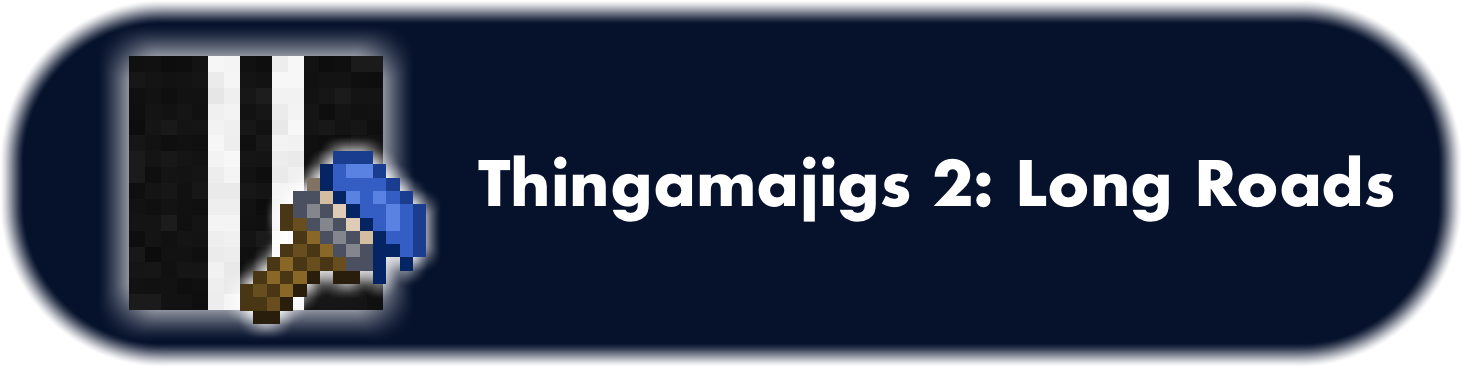
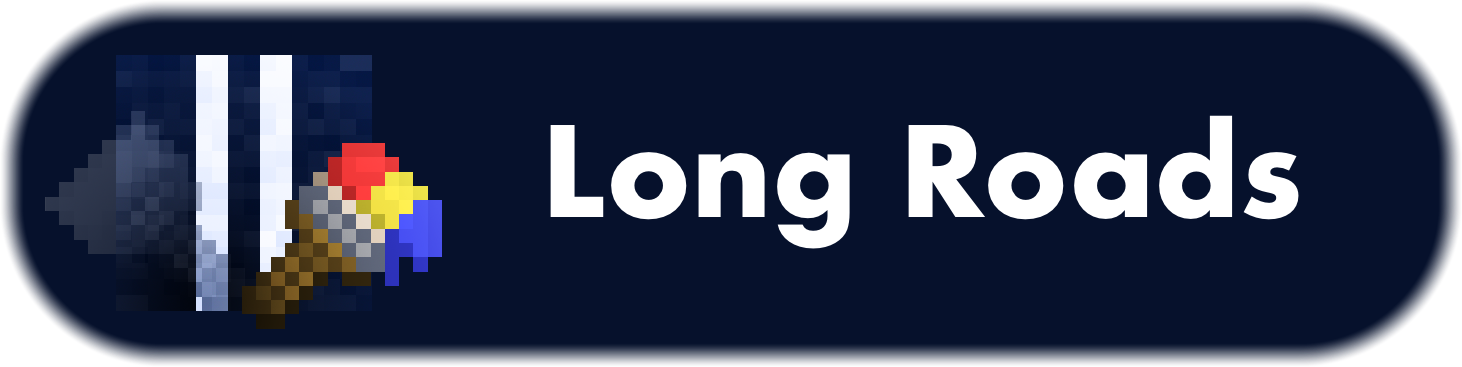
1.0.1 refurbished sign type list with bigger buttons and better renders on them, and cached translation keys

Changed region(s): [[0.0308, 0.0899, 0.9542, 0.9292]]

diff --git a/src/main/java/net/rk/longroads/screen/DynamicRoadSignScreen.java b/src/main/java/net/rk/longroads/screen/DynamicRoadSignScreen.java
@@ -21,6 +21,7 @@ import net.rk.longroads.ThingamajigsLongRoads;
 import net.rk.longroads.menu.DynamicSignMenu;
 import net.rk.longroads.network.record.DynamicSignPayload;
 import net.rk.longroads.registries.SignType;
+import net.rk.longroads.registries.TLRRegistries;
 import net.rk.longroads.screen.widget.ActionCheckboxLongRoads;
 import net.rk.longroads.screen.widget.DynamicEditBox;
 import net.rk.longroads.screen.widget.RevertedButton;
@@ -55,17 +56,17 @@ public class DynamicRoadSignScreen extends AbstractContainerScreen<DynamicSignMe
     public float scrollOffs = 0;
     public int startRow = 0;
 
-    public int listButtonStartX = 184;
-    public int listButtonStartY = 96;
+    public int listButtonStartX = 184; // 184
+    public int listButtonStartY = 96; // 96
 
-    public int listBGX = 183;
-    public int listBGY = 94;
+    public int listBGX = 183; // 183
+    public int listBGY = 94; // 94
 
-    public int scrollerStartX = 241;
-    public int scrollerStartY = 95;
+    public int scrollerStartX = 275; // 241
+    public int scrollerStartY = 95; // 95
 
-    private int buttonSizeX = 14;
-    private int buttonSizeY = 14;
+    private int buttonSizeX = 18; // 14 for both
+    private int buttonSizeY = 18;
 
     public boolean isShifting = false;
 
@@ -106,7 +107,7 @@ public class DynamicRoadSignScreen extends AbstractContainerScreen<DynamicSignMe
         RenderSystem.defaultBlendFunc();
         RenderSystem.setShaderTexture(0, BG_TEXTURE);
         guiGraphics.blit(LIST_BG, this.leftPos + listBGX, this.topPos + listBGY, 0.0F, 0.0F,
-                71, 60, 71, 60);
+                107, 78, 107, 78);
         RenderSystem.disableBlend();
 
         guiGraphics.pose().pushPose();
@@ -136,10 +137,12 @@ public class DynamicRoadSignScreen extends AbstractContainerScreen<DynamicSignMe
 
         // sign type preview 'buttons'
         label64:
-        for (int l = 0; l < 4; l++) {
-            for (int i1 = 0; i1 < 4; i1++) {
+        for (int l = 0; l < 4; l++) { // was 4
+            for (int i1 = 0; i1 < 4; i1++) { // was 4
+                int offset = 4;
+
                 int j1 = l + startRow;
-                int k1 = j1 * 4 + i1;
+                int k1 = j1 * offset + i1;
                 if (k1 >= list.size()) {
                     break label64;
                 }
@@ -169,29 +172,29 @@ public class DynamicRoadSignScreen extends AbstractContainerScreen<DynamicSignMe
                         res = ResourceLocation.parse(Utilities.missingLocation);
                     }
                     //
-                    double delta = Math.sin(0.75 * Math.cos(6.32 * Util.getMillis() / 3800.0 / Math.max((double)l * 0.5, 3.0))) / 2.5;
-                    double deltaY = Math.sin(0.75 * Math.cos(6.28 * Util.getMillis() / 3200.0 / Math.max((double)l * 0.5, 3.0))) / 2.5;
+                    /*double delta = Math.sin(0.75 * Math.cos(6.32 * Util.getMillis() / 3800.0 / Math.max((double)l * 0.5, 3.0))) / 2.5;
+                    double deltaY = Math.sin(0.75 * Math.cos(6.28 * Util.getMillis() / 3200.0 / Math.max((double)l * 0.5, 3.0))) / 2.5;*/
 
                     if(DynamicSignMenu.signTypes.get(k1).signModeltype().equals(Utilities.SignModelTypes.SQUARE.getModelTypeName())){
                         guiGraphics.blit(res, x,y,
-                                5.75f,1.75f,
-                                14,14,
-                                32,32);
+                                6.5f,-1f,
+                                buttonSizeX,buttonSizeY,
+                                38,16);
                     }
                     else if(DynamicSignMenu.signTypes.get(k1).signModeltype().equals(Utilities.SignModelTypes.DOUBLE_SQUARE.getModelTypeName())){
-                        double rangeLarge = Mth.lerp(delta,20,90);
-                        double rangeLargeY = Mth.lerp(deltaY,1,48);
+                        //double rangeLarge = Mth.lerp(delta,20,90);
+                        //double rangeLargeY = Mth.lerp(deltaY,1,48);
                         guiGraphics.blit(res, x,y,
-                                (float)rangeLarge + 2f,(float)rangeLargeY + 16f,
-                                14,14,
-                                128,128);
+                                (float)0f,(float)0f,
+                                buttonSizeX,buttonSizeY,
+                                32,32);
                     }
                     else if(DynamicSignMenu.signTypes.get(k1).signModeltype().equals(Utilities.SignModelTypes.RECTANGLE.getModelTypeName())){
-                        double rangeRect = Mth.lerp(delta,16,64);
+                        //double rangeRect = Mth.lerp(delta,16,64);
                         guiGraphics.blit(res, x,y,
-                                (float)rangeRect,0,
-                                14,14,
-                                128,64);
+                                (float)7,(float)-1,
+                                buttonSizeX,buttonSizeY,
+                                64,32);
                     }
                 }
             }
@@ -209,19 +212,29 @@ public class DynamicRoadSignScreen extends AbstractContainerScreen<DynamicSignMe
     protected void renderLabels(GuiGraphics guiGraphics, int mouseX, int mouseY) {
         guiGraphics.drawString(this.font, this.title, this.titleLabelX, this.titleLabelY, 4210752, false);
 
-        String translationKey = this.menu.be.holderList.typesHolderObjectList().get(0).getSignType().translationKey();
+        String translationKey = this.menu.be.translationKey;
+
+        if(translationKey == null || translationKey.isEmpty()){
+            translationKey = "sign_type.placeholder.name";
+        }
+
+        // this will change how many characters are shown on the translated string
+        int maxCharLengthAllowed = 22;
+        if(maxCharLengthAllowed <= 0){
+            maxCharLengthAllowed = 22;
+        }
 
         Component testComponent = Component.translatable(translationKey);
-        if(testComponent.getString().length() > 16){
+        if(testComponent.getString().length() > maxCharLengthAllowed){
             guiGraphics.drawString(this.font,Component.translatable("container.thingamajigslongroads.dynamic_sign.sign_type")
-                            .append(Component.literal(testComponent.getString(16)).append("...")),
+                            .append(Component.literal(testComponent.getString(maxCharLengthAllowed)).append("...")),
                     this.titleLabelX + 9,this.titleLabelY + 102,
                     LongRoadsCalcs.Colors.getWhite(),true);
         }
         else{
             guiGraphics.drawString(this.font,Component.translatable("container.thingamajigslongroads.dynamic_sign.sign_type")
                             .append(Component.translatable(translationKey)),
-                    this.titleLabelX + 9,this.titleLabelY + 98,
+                    this.titleLabelX + 9,this.titleLabelY + 102,
                     LongRoadsCalcs.Colors.getWhite(),true);
         }
     }
@@ -386,7 +399,7 @@ public class DynamicRoadSignScreen extends AbstractContainerScreen<DynamicSignMe
             }
         };
 
-        updateSign = new RevertedButton(flipModelY.getX(),flipModelY.getY() + 32,64,24,Component.translatable("button.longroads.generic.update"),
+        updateSign = new RevertedButton(flipModelY.getX(),flipModelY.getY() + 20,64,24,Component.translatable("button.longroads.generic.update"),
                 (handler) -> {
                     byte atomicFlipState = 0;
                     if(flipModelX.selected() && flipModelY.selected()){
@@ -423,11 +436,12 @@ public class DynamicRoadSignScreen extends AbstractContainerScreen<DynamicSignMe
         // math and server data for list of buttons when clicked
         for (int k = 0; k < 4; k++) { // was k < 4
             for (int l = 0; l < 4; l++) { // was l < 4
-                double d0 = mouseX - (double)(i + l * 14);
-                double d1 = mouseY - (double)(j + k * 14);
+                double d0 = mouseX - (double)(i + l * buttonSizeX); //was 14
+                double d1 = mouseY - (double)(j + k * buttonSizeY); //was 14
                 int i1 = k + this.startRow;
                 int buttonIndex = i1 * 4 + l;
-                if (d0 >= 0.0 && d1 >= 0.0 && d0 < 14.0 && d1 < 14.0 && this.menu.clickedSignTypeSelectorButton(this.minecraft.player, buttonIndex)) {
+                // was d0 >= 0.0 && d1 >= 0.0 && d0 < 14.0 && d1 < 14.0
+                if (d0 >= 0.0 && d1 >= 0.0 && d0 < (float)buttonSizeX && d1 < (float)buttonSizeY && this.menu.clickedSignTypeSelectorButton(this.minecraft.player, buttonIndex)) {
                     Minecraft.getInstance().getSoundManager().play(SimpleSoundInstance.forUI(SoundEvents.UI_BUTTON_CLICK, 1.0F));
                     this.minecraft.gameMode.handleInventoryButtonClick(this.menu.containerId, buttonIndex);
                     byte flipState = 0;
@@ -483,11 +497,12 @@ public class DynamicRoadSignScreen extends AbstractContainerScreen<DynamicSignMe
 
     @Override
     public boolean mouseScrolled(double mouseX, double mouseY, double scrollX, double scrollY) {
-        int i = this.menu.signTypes.size() - 4;
+        int i = this.menu.signTypes.size() - 16;
+
         if (i > 0) {
             float f = (float)scrollY / (float)i;
             this.scrollOffs = Mth.clamp(this.scrollOffs - f, 0.0F, 1.0F);
-            this.startRow = Math.max((int)(this.scrollOffs * (float)i + 0.5F), 0);
+            this.startRow = Math.max((int)(this.scrollOffs * (float)i + 0.5F), -16);
         }
 
         return true;

diff --git a/src/main/java/net/rk/longroads/entity/blockentity/custom/DynamicRoadSignBE.java b/src/main/java/net/rk/longroads/entity/blockentity/custom/DynamicRoadSignBE.java
@@ -33,6 +33,7 @@ public class DynamicRoadSignBE extends BlockEntity{
     public String signTexture = Utilities.missingLocation;
     public String modelType = "square";
     public final String fallbackSignTexture = Utilities.missingLocation;
+    public String translationKey = "sign_type.placeholder.name";
 
     public SignTypeHolderObject holderList;
     public int indexId;
@@ -59,6 +60,7 @@ public class DynamicRoadSignBE extends BlockEntity{
         //String tempTexture = "thingamajigslongroads:textures/entity/signs/" + holderList.typesHolderObjectList().get(0).getSignType().assetId().getPath() + ".png";
         signTexture = holderList.typesHolderObjectList().get(0).getSignType().assetId().toString() + ".png";
         modelType = holderList.typesHolderObjectList().get(0).getSignType().signModeltype();
+        translationKey = holderList.typesHolderObjectList().getFirst().getSignType().translationKey();
     }
 
     public DynamicRoadSignBE(BlockPos pos, BlockState blockState){
@@ -127,6 +129,7 @@ public class DynamicRoadSignBE extends BlockEntity{
         pTag.putFloat("z_angle",zAngle);
         pTag.putString("sign_texture",signTexture);
         pTag.putString("model_type",modelType);
+        pTag.putString("translation_key",translationKey);
 
         /*if (!(this.holderList == null)) {
             pTag.put("sign_types", SignTypeHolderObject.CODEC.encodeStart(slp.createSerializationContext(NbtOps.INSTANCE),this.holderList).getOrThrow());
@@ -157,6 +160,9 @@ public class DynamicRoadSignBE extends BlockEntity{
 
         if(pTag.contains("model_type")){
             modelType = pTag.getString("model_type");
+        }
+        if(pTag.contains("translation_key")){
+            translationKey = pTag.getString("translation_key");
         }
 
         /*if (pTag.contains("sign_types")) {

diff --git a/src/main/java/net/rk/longroads/menu/DynamicSignMenu.java b/src/main/java/net/rk/longroads/menu/DynamicSignMenu.java
@@ -79,7 +79,7 @@ public class DynamicSignMenu extends AbstractContainerMenu{
     }
 
     public boolean clickedSignTypeSelectorButton(Player player, int id) {
-        if (id >= 0 && id < this.signTypes.size()) {
+        if (id >= 0 && id < DynamicSignMenu.signTypes.size()) {
             return true;
         }
         else {